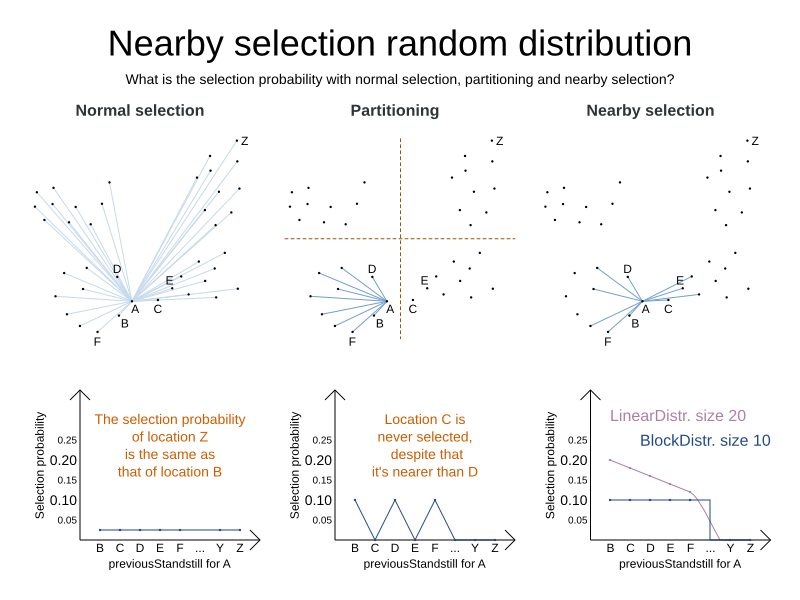
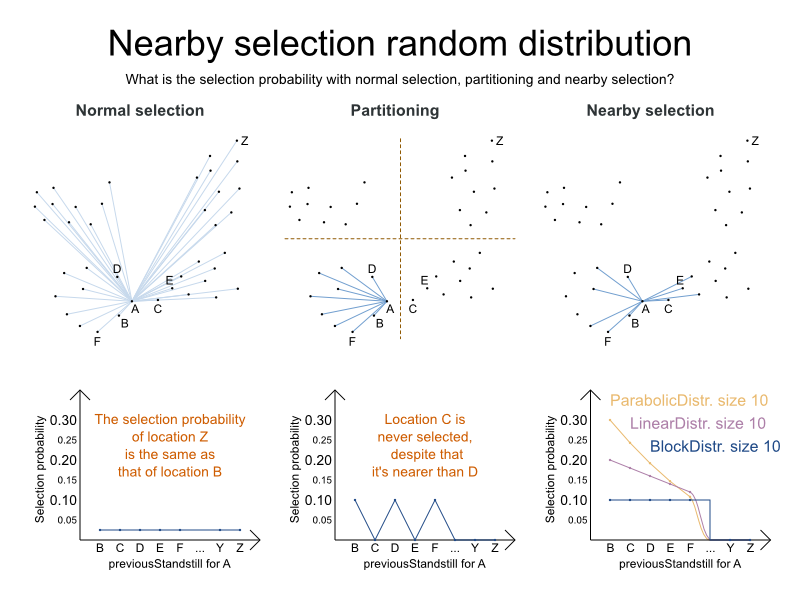
nearby selection image: add parabolic distribution (+ fix javadoc)

diff --git a/optaplanner-core/src/main/java/org/optaplanner/core/impl/heuristic/selector/common/nearby/ParabolicDistributionNearbyRandom.java b/optaplanner-core/src/main/java/org/optaplanner/core/impl/heuristic/selector/common/nearby/ParabolicDistributionNearbyRandom.java
@@ -19,8 +19,8 @@ package org.optaplanner.core.impl.heuristic.selector.common.nearby;
 import java.util.Random;
 
 /**
- * P(x) = 3(m - x)²/k³
- * Cumulative probability F(x) = 1 - (1 - x/k)³
+ * P(x) = 3(m - x)²/m³
+ * Cumulative probability F(x) = 1 - (1 - x/m)³
  * Inverse cumulative probability F(p) = m(1 - (1 - p)^(1/3))
  */
 public class ParabolicDistributionNearbyRandom implements NearbyRandom {
